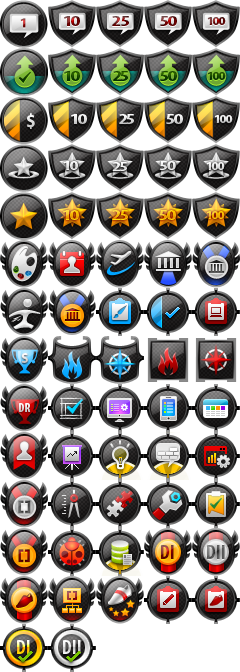
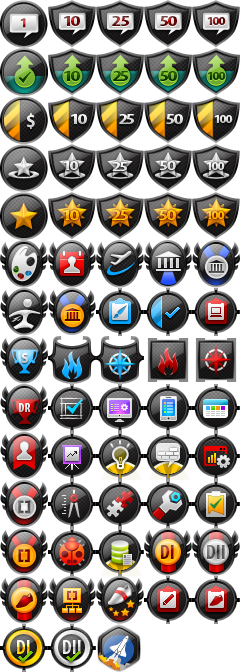
add NTL badge to software profile

Changed region(s): [[0.4083, 0.9062, 0.5833, 1.0]]

diff --git a/gd/trunk/website/tcdocs/js/badgeBase.js b/gd/trunk/website/tcdocs/js/badgeBase.js
@@ -256,7 +256,8 @@ var globalBadgeInfo = {
         /* 124 */ 'Algorithm Problem Writer',
         /* 125 */ 'Marathon Copilot / Problem Writer',
         /* 126 */ 'Solved Hard Div1 Problem in SRM',
-        /* 127 */ 'Solved Hard Div2 Problem in SRM'
+        /* 127 */ 'Solved Hard Div2 Problem in SRM',
+                  'NASA Tournament Lab Badge'
     ]
 
 };

diff --git a/gd/trunk/website/tcdocs/css/profileBadges.css b/gd/trunk/website/tcdocs/css/profileBadges.css
@@ -528,3 +528,8 @@ span.subBadge.selected {
 .foto.memberPhoto {
     border: none;
 }
+
+.NASA-Tournament-Lab-Badge {
+    background-position: -98px 48px !important;
+}
+
